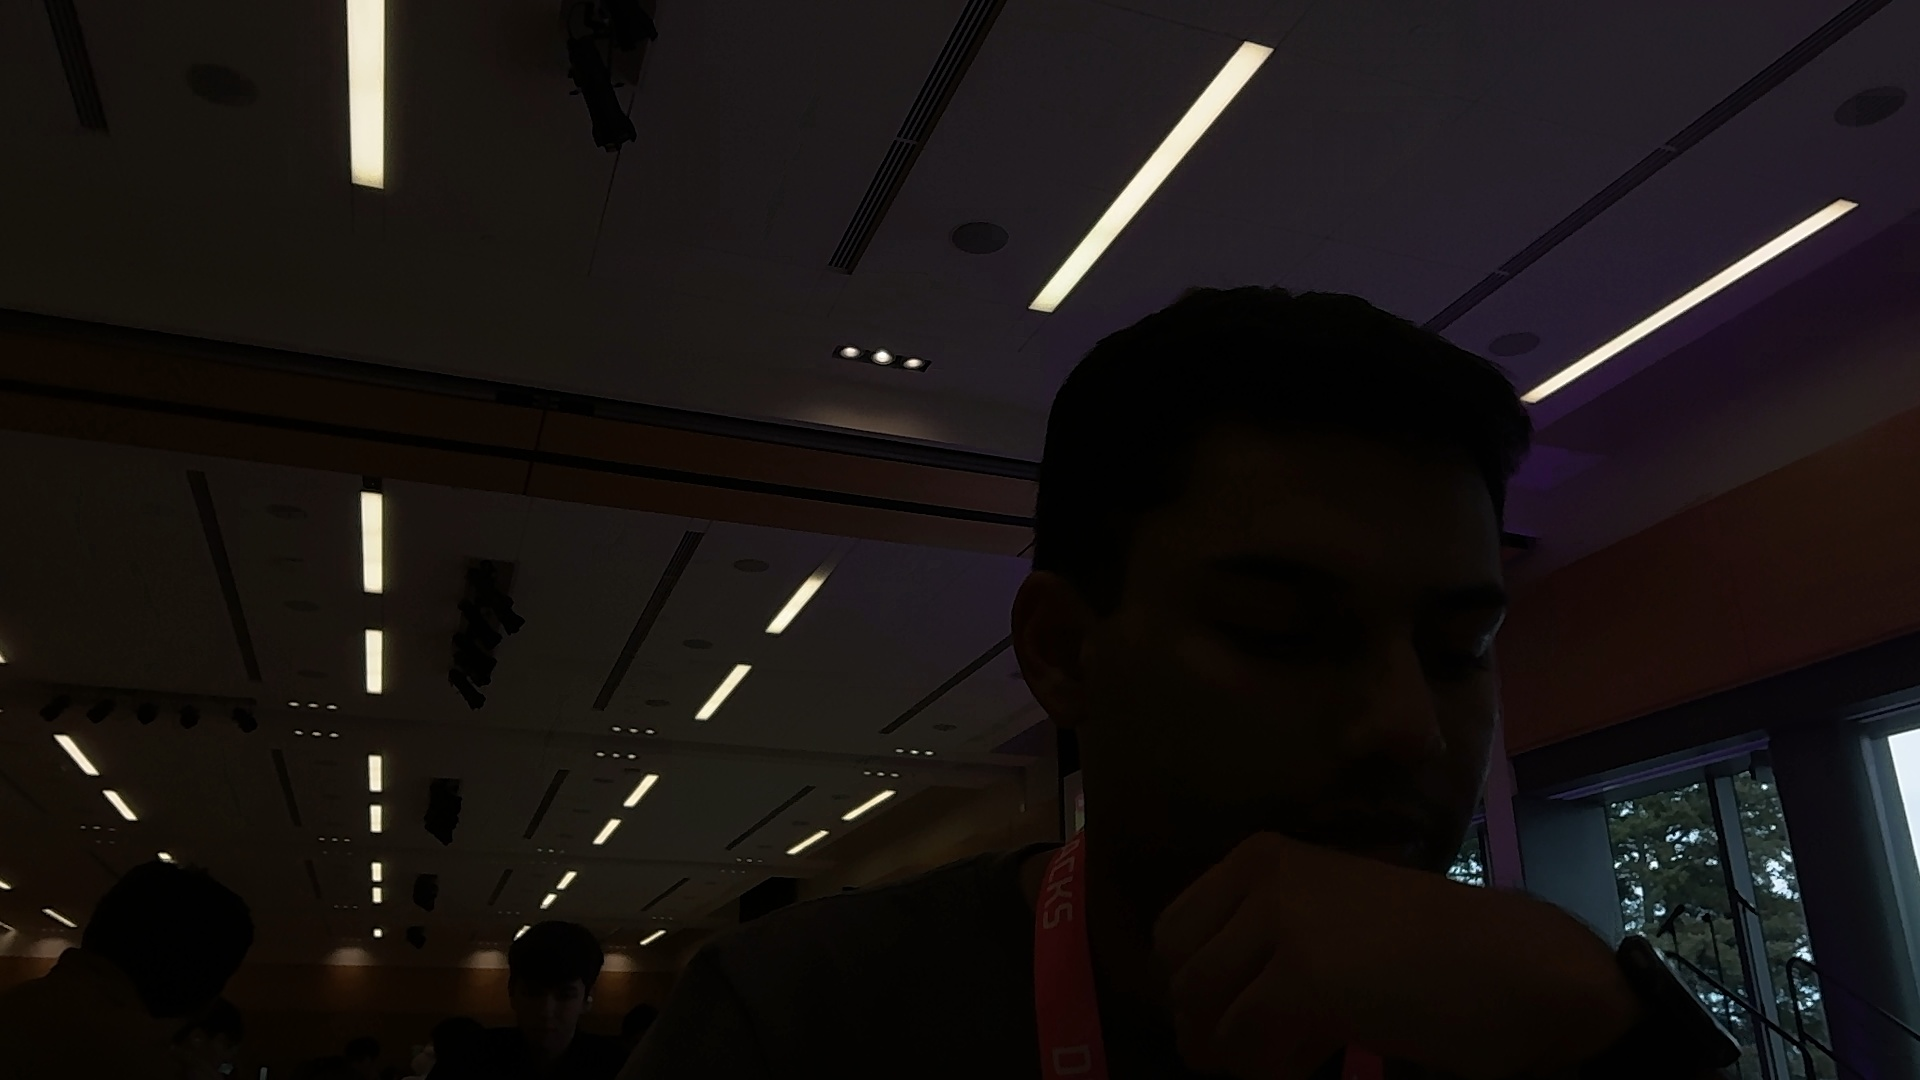
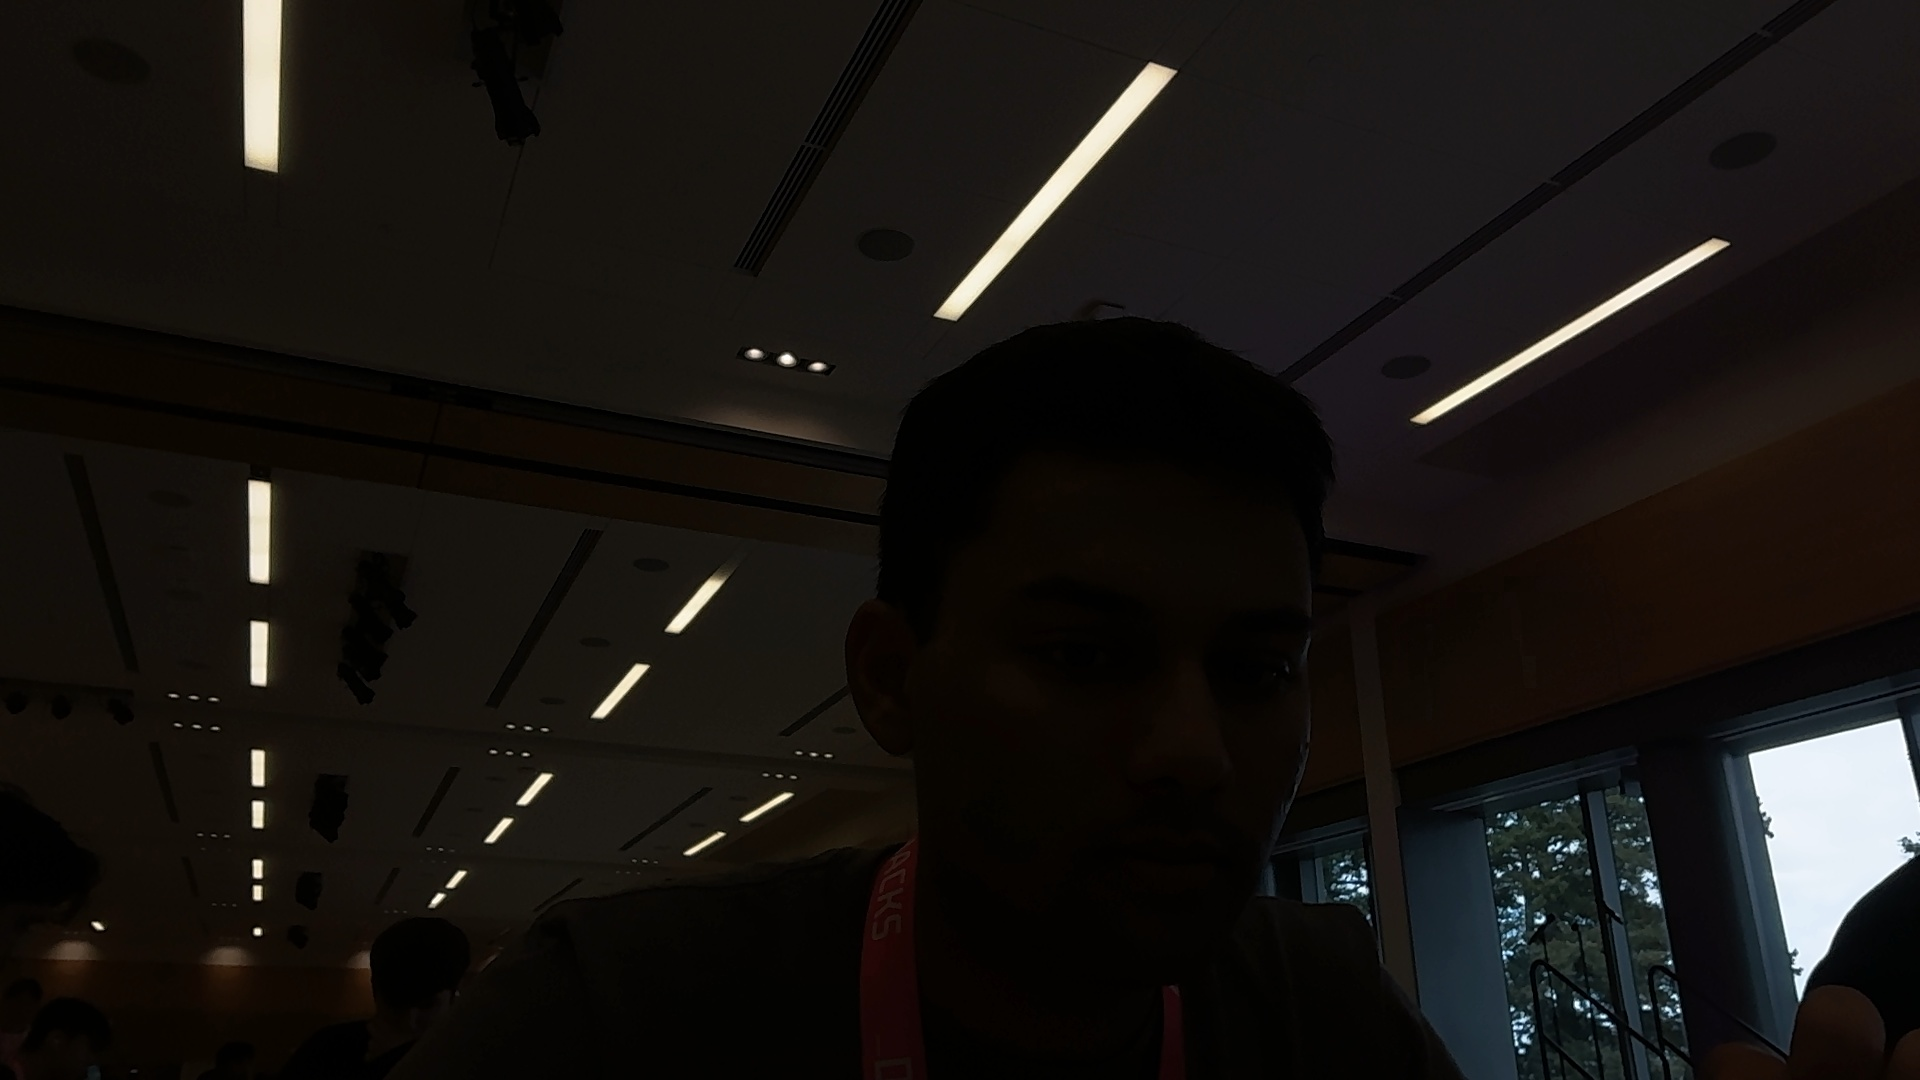
try setting up a config

diff --git a/config.py b/config.py
@@ -1,0 +1,87 @@
+"""Shared settings for FullFill.
+
+Change values here instead of hard-coding them in other files.
+Secrets (API keys, phone numbers) go in .env, never in this file.
+"""
+import os
+from pathlib import Path
+
+from dotenv import load_dotenv
+
+ROOT = Path(__file__).resolve().parent
+load_dotenv(ROOT / ".env")
+
+# --- Camera -------------------------------------------------------------
+# iPhone over a wired Continuity Camera connection. The number can change
+# after unplugging the phone or restarting the Mac. If the feed shows the
+# laptop camera instead of the mat, change this first.
+CAMERA_INDEX = int(os.getenv("CAMERA_INDEX", "0"))
+FRAME_WIDTH = 1920
+FRAME_HEIGHT = 1080
+
+# Area of the frame covered by the mat, as (x, y, width, height) in pixels.
+# None means use the whole frame. Set this once the mount is fixed, and
+# don't move the mount afterwards.
+MAT_ROI = None
+
+# --- Stillness trigger --------------------------------------------------
+MOTION_THRESHOLD = 12.0    # mean pixel change inside the mat that counts as motion
+STILL_SECONDS = 0.5        # how long the mat must stay still before a check fires
+MIN_SECONDS_BETWEEN_CHECKS = 3.0
+
+# --- Image sent to Perceptron -------------------------------------------
+UPLOAD_MAX_SIDE = 1024     # longest side in pixels after downscaling
+JPEG_QUALITY = 85
+
+# --- Perceptron ---------------------------------------------------------
+PERCEPTRON_API_KEY = os.getenv("PERCEPTRON_API_KEY", "")
+# Copy the exact model name from the playground's Export button.
+PERCEPTRON_MODEL = os.getenv("PERCEPTRON_MODEL", "")
+REQUEST_TIMEOUT_SECONDS = 30
+MAX_OUTPUT_TOKENS = 300    # keep answers short: output length drives latency
+USE_REASONING = False      # off by default; turning it on adds latency
+
+# Spending guards, so a misfiring trigger can't burn the credits.
+MAX_CALLS_PER_MINUTE = 30
+MAX_CALLS_PER_SESSION = 500
+
+# --- Order checking -----------------------------------------------------
+ITEM_STATUSES = ("present", "missing", "unsure")
+# Ask for points on flagged items in a second, background call.
+HIGHLIGHT_FLAGGED_ITEMS = True
+
+# --- Files --------------------------------------------------------------
+DATA_DIR = ROOT / "data"
+REFERENCE_DIR = DATA_DIR / "references"   # photos taken through the station camera
+MENU_FILE = DATA_DIR / "menu.json"
+ORDERS_FILE = DATA_DIR / "orders.json"
+LOG_DIR = ROOT / "logs"                   # every check, for evaluation
+SNAPSHOT_DIR = LOG_DIR / "snapshots"
+
+# --- Backend ------------------------------------------------------------
+HOST = "127.0.0.1"
+PORT = int(os.getenv("PORT", "8000"))
+
+# --- Photon (optional) --------------------------------------------------
+PHOTON_ENABLED = os.getenv("PHOTON_ENABLED", "false").lower() == "true"
+MANAGER_PHONE = os.getenv("MANAGER_PHONE", "")
+
+
+def check():
+    """Create folders and report missing settings. Call once at startup."""
+    for folder in (REFERENCE_DIR, SNAPSHOT_DIR):
+        folder.mkdir(parents=True, exist_ok=True)
+
+    problems = []
+    if not PERCEPTRON_API_KEY:
+        problems.append("PERCEPTRON_API_KEY is missing from .env")
+    if not PERCEPTRON_MODEL:
+        problems.append("PERCEPTRON_MODEL is missing from .env")
+    if PHOTON_ENABLED and not MANAGER_PHONE:
+        problems.append("PHOTON_ENABLED is true but MANAGER_PHONE is empty")
+    return problems
+
+
+if __name__ == "__main__":
+    issues = check()
+    print("Config OK" if not issues else "\n".join(issues))
